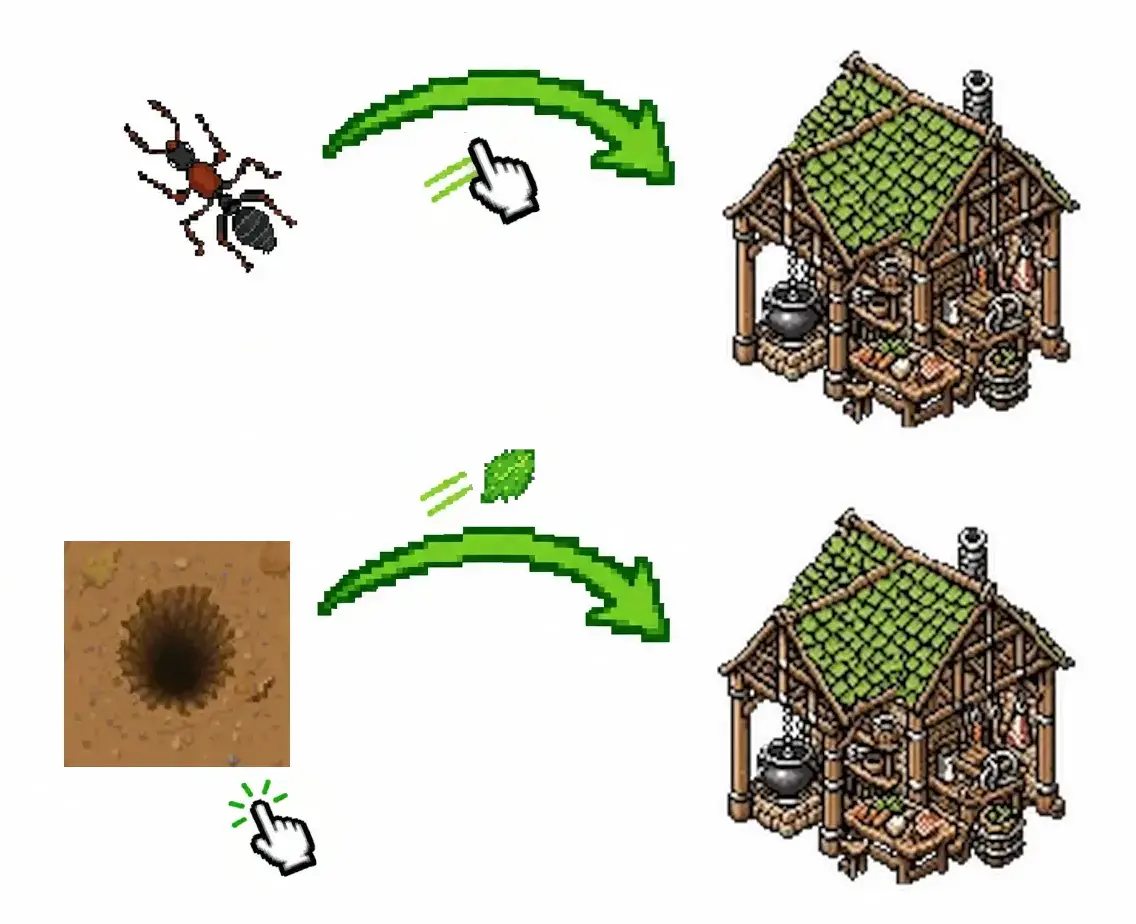
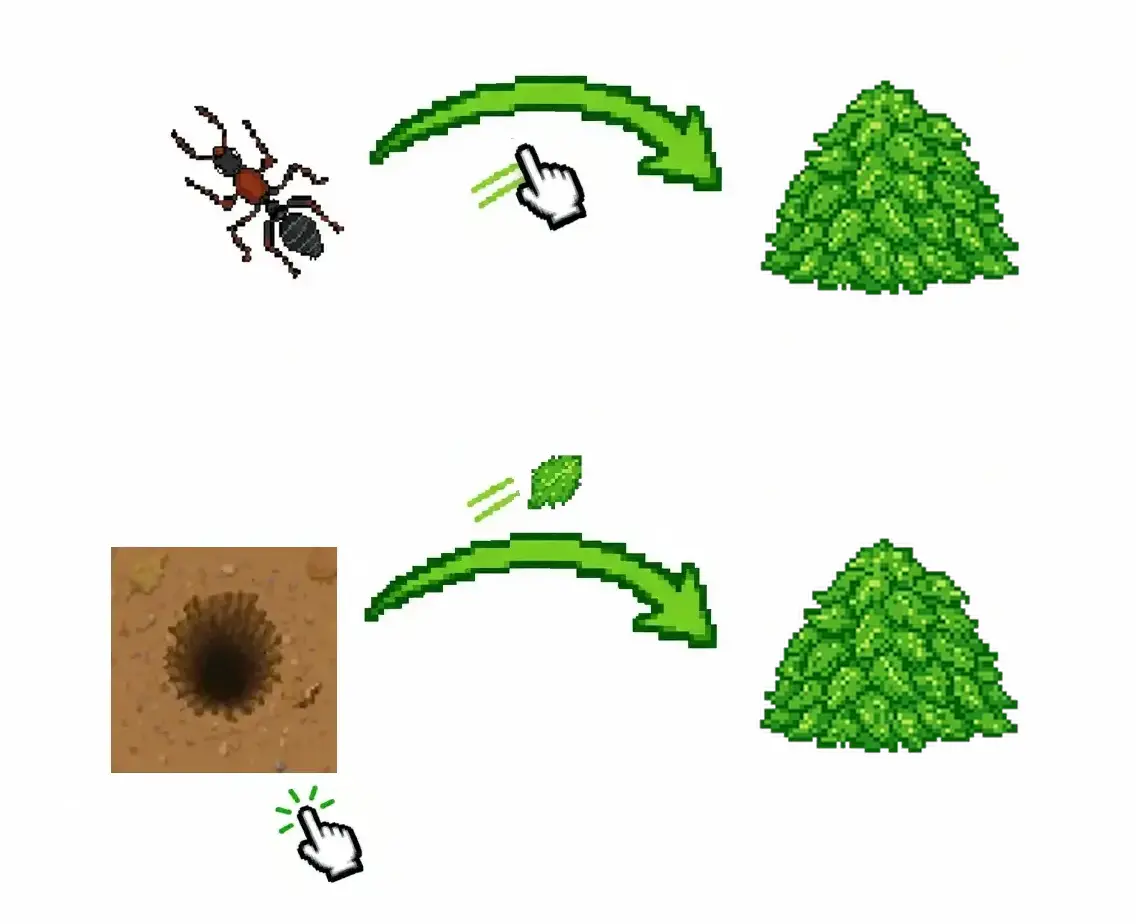
feat: smelter dialogue

Changed region(s): [[0.0308, 0.4848, 0.9551, 0.9697], [0.0924, 0.0606, 0.9551, 0.4848]]

diff --git a/apps/frontend/src/utils/dialogue.ts b/apps/frontend/src/utils/dialogue.ts
@@ -13,6 +13,7 @@ import { BricksProductionInfographic } from "../components/dialogue/BricksProduc
 import { CookingListInfographic } from "../components/dialogue/CookingListInfographic";
 import { HungryBugInfographic } from "../components/dialogue/HungryBugInfographic";
 import { LeafToBeetleInfographic } from "../components/dialogue/LeafToBeetleInfographic";
+import { ProcessIronInfographic } from "../components/dialogue/ProcessIronInfographic";
 import { StackingItemsInfographic } from "../components/dialogue/StackingItemsInfographic";
 import { StickToHoleInfographic } from "../components/dialogue/StickToHoleInfographic";
 import { TavernListInfographic } from "../components/dialogue/TavernListInfographic";
@@ -168,6 +169,15 @@ export function bricksProductionDialogue(): Dialogue {
   };
 }
 
+export function smelterDialogue(): Dialogue {
+  return {
+    id: "smelter",
+    text: "Smelter processes iron and clay. You will be able to process more items after upgrading the building.",
+    bugType: "ant",
+    infographic: createElement(ProcessIronInfographic),
+  };
+}
+
 export function cookingListDialogue(): Dialogue {
   return {
     id: "cookingList",
@@ -230,7 +240,7 @@ export function digMoreResourcesDialogue(anthillId: string): Dialogue {
 export function automateWithAntsDialogue(): Dialogue {
   return {
     id: "automateWithAnts",
-    text: "Me and other ants can help you carry items if you want. Just drop us on a building or a stack and we will deliver items to that structure automatically.",
+    text: "Me and other ants can help you carry items if you want. Just drop us on a stack and we will deliver items to that stack automatically.",
     bugType: "ant",
     infographic: createElement(AutomateTransportInfographic),
   };
@@ -283,6 +293,8 @@ export function structureClickDialogue(structureType: StructureType): Dialogue |
       return cookingListDialogue();
     case "tavern":
       return tavernListDialogue();
+    case "smelter":
+      return smelterDialogue();
     default:
       return null;
   }
@@ -332,7 +344,7 @@ export function bugClickDialogue(bugType: BugType): Dialogue | null {
       return {
         id: "greenfly",
         text: "Greenflies are ladybugs' favorite food. Cook them in the kitchen.",
-        bugType: "beetle",
+        bugType: "ant",
       };
     case "fly":
       return {

diff --git a/apps/frontend/src/components/dialogue/ProcessIronInfographic.tsx b/apps/frontend/src/components/dialogue/ProcessIronInfographic.tsx
@@ -1,0 +1,16 @@
+import Image from "next/image";
+
+export function ProcessIronInfographic() {
+  return (
+    <figure className="m-0 w-[48cqi]">
+      <Image
+        src="/dialogues/smelter-list.webp"
+        alt="Items that can be processed in the smelter"
+        width={1536}
+        height={1024}
+        sizes="48cqi"
+        className="h-auto w-full"
+      />
+    </figure>
+  );
+}

diff --git a/apps/frontend/src/types/dialogue.ts b/apps/frontend/src/types/dialogue.ts
@@ -9,7 +9,8 @@ export type DialogueId =
   | "cannotPlace"
   | "bricksProduction"
   | "cookingList"
-  | "tavernList";
+  | "tavernList"
+  | "smelter";
 
 export type CannotBuildReason = "noSpace";
 
